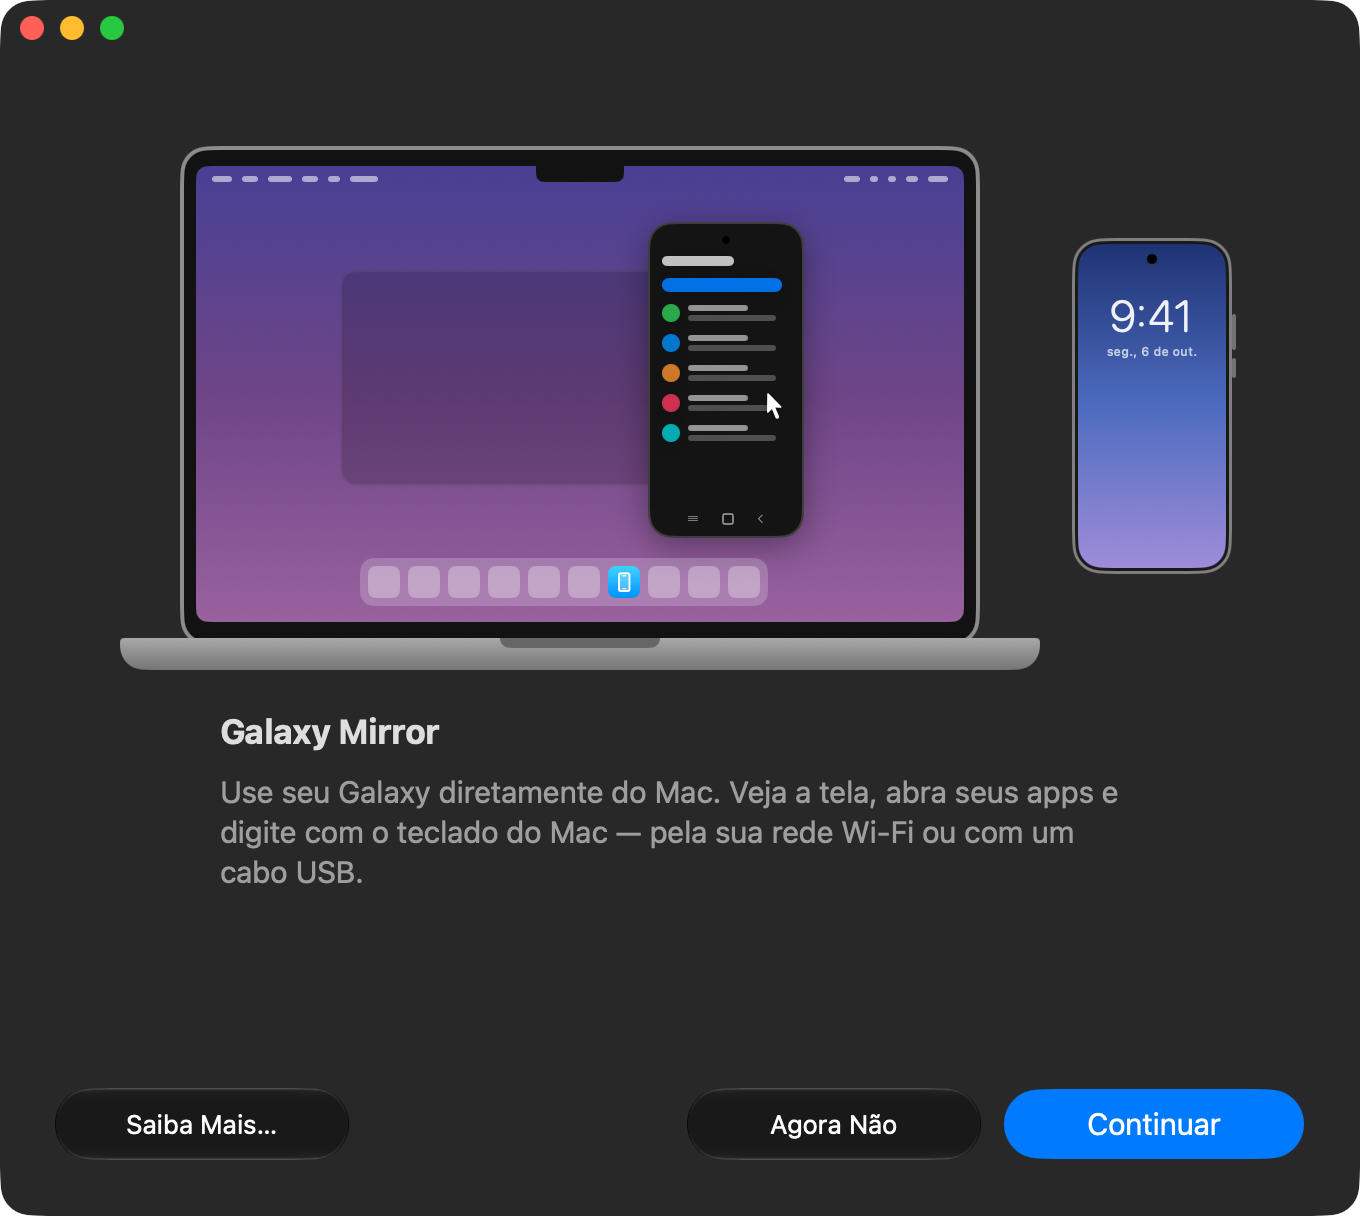
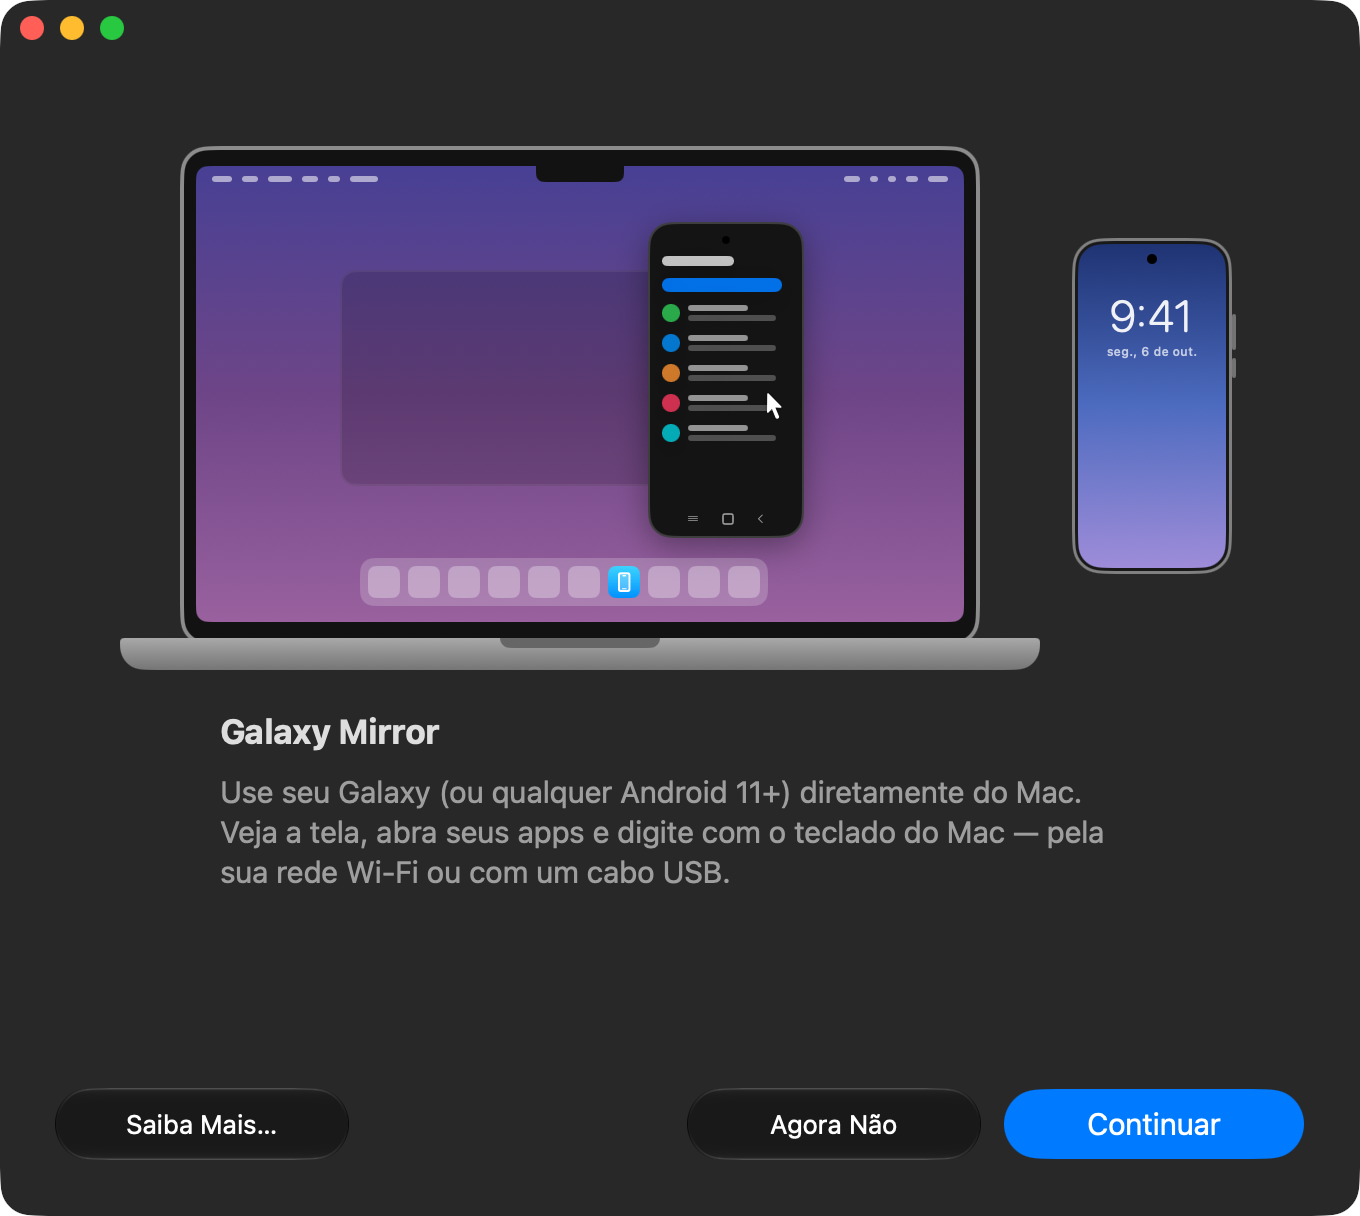
fix: mention other Android phones on the welcome screen
Say the app works with any Android 11+ phone, not only Galaxy, and
update the README screenshot.

Changed region(s): [[0.1544, 0.625, 0.8029, 0.75]]

diff --git a/Sources/GalaxyMirror/Views/Setup/SetupFlowView.swift b/Sources/GalaxyMirror/Views/Setup/SetupFlowView.swift
@@ -26,7 +26,7 @@ struct SetupFlowView: View {
         SetupPage(title: "Galaxy Mirror") {
             MirrorIllustration()
         } content: {
-            Text("Use seu Galaxy diretamente do Mac. Veja a tela, abra seus apps e digite com o teclado do Mac — pela sua rede Wi-Fi ou com um cabo USB.")
+            Text("Use seu Galaxy (ou qualquer Android 11+) diretamente do Mac. Veja a tela, abra seus apps e digite com o teclado do Mac — pela sua rede Wi-Fi ou com um cabo USB.")
         } buttons: {
             PillButton("Saiba Mais…") { openURL(Links.learnMore) }
             Spacer()
